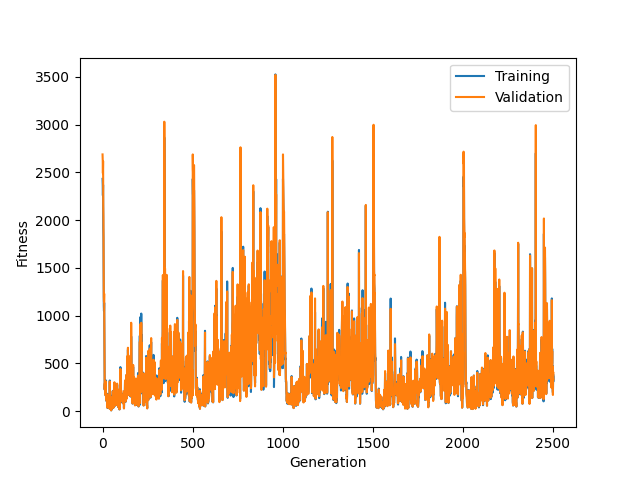
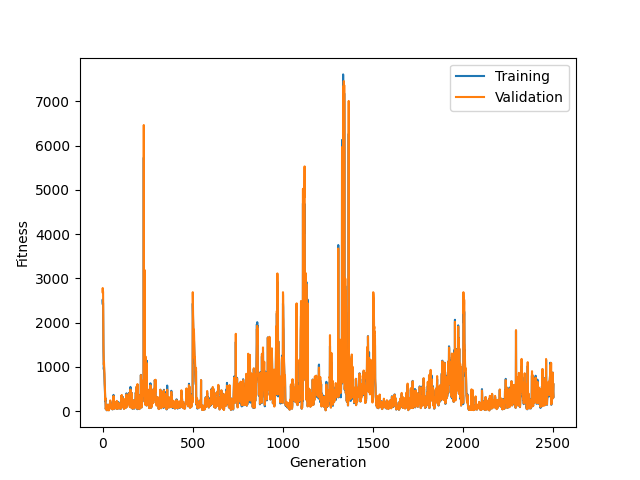
configuring runs

diff --git a/ES_FINAL.py b/ES_FINAL.py
@@ -1,8 +1,6 @@
 import numpy as np
 import data
 import time
-import sys
-from deap import base, creator, tools, algorithms
 import tensorflow as tf
 import matplotlib.pyplot as plt
 from tensorflow.keras.models import Sequential
@@ -68,7 +66,7 @@ def fitness_function(individuals):
 	fitness = tf.convert_to_tensor(fitness)
 	return fitness
 
-max_epochs = 500
+max_epochs = 150
 history = {
 	'best_fitness_train': [],
 	'best_fitness_val': [],
@@ -94,11 +92,17 @@ def logging_function(cma, logger):
 
 
 
-def do_ES(k):
+def do_ES(k, folder, sample_size, noise_level):
 	np.random.seed(123)
+	history = {
+		'best_fitness_train': [],
+		'best_fitness_val': [],
+		'best_mse_train': [],
+		'best_mse_val': []
+	}
 
 	global X_train, X_val, X_test, y_train, y_val, y_test
-	X_train, X_val, X_test, y_train, y_val, y_test = data.generate_synthetic_data_reg(2000, 0.05)
+	X_train, X_val, X_test, y_train, y_val, y_test = data.generate_synthetic_data_reg(sample_size, noise_level)
 
 	max_neurons = 100
 	n_weights = X_train.shape[1] * max_neurons + max_neurons
@@ -109,6 +113,7 @@ def do_ES(k):
 	bounds.extend([[-np.inf, np.inf]] * n_weights)
 
 	cma = CMA(
+		population_size=100,
 		initial_solution=np.array(initial_solution),
 		initial_step_size=1.0,
 		enforce_bounds=np.array(bounds),
@@ -128,16 +133,18 @@ def do_ES(k):
 	plt.plot(history['best_fitness_val'])
 	plt.xlabel('Generation')
 	plt.ylabel('Fitness')
+	plt.grid(True)
 	plt.legend(['Training', 'Validation'])
-	plt.savefig(f'ES_training_fitness{k}.png')
+	plt.savefig(f'{folder}/ES_training_fitness{k}.png')
 	plt.clf()
 
 	plt.plot(history['best_mse_train'])
 	plt.plot(history['best_mse_val'])
 	plt.xlabel('Generation')
 	plt.ylabel('MSE')
+	plt.grid(True)
 	plt.legend(['Training', 'Validation'])
-	plt.savefig(f'ES_training_mse_{k}.png')
+	plt.savefig(f'{folder}/ES_training_mse_{k}.png')
 	plt.clf()
 
 	mse = obtain_mse(best_solution, X_test, y_test)

diff --git a/plot_results.py b/plot_results.py
@@ -1,12 +1,15 @@
 import json
+
+import pandas as pd
 from scipy import stats
 import numpy as np
 import matplotlib.pyplot as plt
 
+folder = "run2"
 
-MLP_file_path = "MLP_runs.json"
-GA_file_path = "GA_runs.json"
-ES_file_path = "ES_runs.json"
+MLP_file_path = f"{folder}/MLP_runs.json"
+GA_file_path = f"{folder}/GA_runs.json"
+ES_file_path = f"{folder}/ES_runs.json"
 
 MLP_f = open(MLP_file_path)
 GA_f = open(GA_file_path)
@@ -41,5 +44,29 @@ print(f"GA training time: {np.mean(GA_time):3f}+-{stats.sem(GA_time) * 1.967:3f}
 print(f"ES MSE: {np.mean(ES_mse):3f}+-{stats.sem(ES_mse) * 1.967:3f}")
 print(f"ES training time: {np.mean(ES_time):3f}+-{stats.sem(ES_time) * 1.967:3f}")
 
+data_for_boxplot1 = pd.DataFrame({'Adam':MLP_mse, 'GA':GA_mse, 'CMA-ES':ES_mse})
+data_for_boxplot2 = pd.DataFrame({'Adam':MLP_time, 'GA':GA_time, 'CMA-ES':ES_time})
+labels = ["Adam", "GA", "CMA-ES"]
+
+# Create boxplot time predict
+plt.figure(figsize=(5, 4))
+#plt.subplots_adjust(bottom=0.345, left=0.24, top=0.92,right=0.99)
+plt.boxplot(data_for_boxplot1, labels=labels)
+#plt.xticks(rotation=45, ha='right')  # Rotate x-axis labels for better readability
+#plt.xlabel('Models')
+plt.ylabel('MSE')
+plt.title('Boxplot of Model Test MSE')
+plt.savefig(f'{folder}/Boxplot_mse.png')
+plt.close()
+
+plt.figure(figsize=(5, 4))
+#plt.subplots_adjust(bottom=0.345, left=0.24, top=0.92,right=0.99)
+plt.boxplot(data_for_boxplot2, labels=labels)
+#plt.xticks(rotation=45, ha='right')  # Rotate x-axis labels for better readability
+#plt.xlabel('Models')
+plt.ylabel('Training time [s]')
+plt.title('Boxplot of Training time')
+plt.savefig(f'{folder}/Boxplot_training_time.png')
+plt.close()
 
 print()

diff --git a/independent_runs.py b/independent_runs.py
@@ -1,22 +1,22 @@
 
 import numpy as np
 import json
-import ES_FINAL, GA_FINAL
-import MLP
-
+import ES_FINAL, GA_FINAL, MLP
 
 def main():
-    k_runs = 5
-
+    folder = "run3"
+    k_runs = 3
+    dataset_sample_size = 2000
+    dataset_noise_level = 0.25
     ###################
     #      MLP        #
     ###################
     MLP_runs = {}
     for k in range(k_runs):
-        mse, time, n_neurons = MLP.do_MLP(k)
+        mse, time, n_neurons = MLP.do_MLP(k, folder, dataset_sample_size, dataset_noise_level)
         MLP_runs[k] = {'mse': mse, 'time': time, 'n_neurons': float(n_neurons)}
 
-    with open("MLP_runs.json", "w") as js:
+    with open(f"{folder}/MLP_runs.json", "w") as js:
         json.dump(MLP_runs, js)
 
     ###################
@@ -25,10 +25,10 @@ def main():
 
     GA_runs = {}
     for k in range(k_runs):
-        mse, time, n_neurons = GA_FINAL.do_GA(k)
+        mse, time, n_neurons = GA_FINAL.do_GA(k, folder, dataset_sample_size, dataset_noise_level)
         GA_runs[k] = {'mse': mse, 'time': time, 'n_neurons': float(n_neurons)}
 
-    with open("GA_runs.json", "w") as js:
+    with open(f"{folder}/GA_runs.json", "w") as js:
         json.dump(GA_runs, js)
 
 
@@ -38,10 +38,10 @@ def main():
 
     ES_runs = {}
     for k in range(k_runs):
-        mse, time, n_neurons = ES_FINAL.do_ES(k)
+        mse, time, n_neurons = ES_FINAL.do_ES(k, folder, dataset_sample_size, dataset_noise_level)
         ES_runs[k] = {'mse':mse, 'time':time, 'n_neurons':float(n_neurons)}
 
-    with open("ES_runs.json", "w") as js:
+    with open(f"{folder}/ES_runs.json", "w") as js:
         json.dump(ES_runs, js)
 
 

diff --git a/GA_FINAL.py b/GA_FINAL.py
@@ -67,13 +67,13 @@ def obtain_fitness(individual, X, y):
 
 
 
-def do_GA(k):
+def do_GA(k, folder, sample_size, noise_level):
     global X_train, X_val, X_test, y_train, y_val, y_test
-    global history
+
     global max_neurons
     global max_epochs
     global ga
-    X_train, X_val, X_test, y_train, y_val, y_test = data.generate_synthetic_data_reg(2000, 0.05)
+    X_train, X_val, X_test, y_train, y_val, y_test = data.generate_synthetic_data_reg(sample_size, noise_level)
     max_neurons = 100
     max_epochs = 150
     n_weights = X_train.shape[1] * max_neurons + max_neurons
@@ -129,24 +129,24 @@ def do_GA(k):
     # Print the best individual and its fitness value
     print(f"Best individual: {best_individual}, Best fitness: {-ga.fmax}")
 
-    plt.figure(figsize=(4, 2))
+
     plt.plot(history['best_fitness_train'])
     plt.plot(history['best_fitness_val'])
     plt.xlabel('Generation')
     plt.ylabel('Fitness')
     plt.legend(['Training', 'Validation'])
     plt.grid(True)
-    plt.savefig(f'GA_training_fitness_{k}.png')
+    plt.savefig(f'{folder}/GA_training_fitness_{k}.png')
     plt.clf()
 
-    plt.figure(figsize=(4, 2))
+
     plt.plot(history['best_mse_train'])
     plt.plot(history['best_mse_val'])
     plt.xlabel('Generation')
     plt.ylabel('MSE')
     plt.legend(['Training', 'Validation'])
     plt.grid(True)
-    plt.savefig(f'GA_training_mse_{k}.png')
+    plt.savefig(f'{folder}/GA_training_mse_{k}.png')
     plt.clf()
     mse = obtain_mse(best_individual, X_test, y_test)
     print('MSE on test set:', mse)

diff --git a/MLP.py b/MLP.py
@@ -9,11 +9,11 @@ import matplotlib.pyplot as plt
 from sklearn.metrics import mean_squared_error
 
 
-def do_MLP(k):
+def do_MLP(k, folder, sample_size, noise_level):
     np.random.seed(123)
-    X_train, X_val, X_test, y_train, y_val, y_test = data.generate_synthetic_data_reg(200, 0.01)
+    X_train, X_val, X_test, y_train, y_val, y_test = data.generate_synthetic_data_reg(sample_size, noise_level)
     n_neurons = 100
-    epochs = 200
+    epochs = 50
     learning_rate = 0.01
 
 
@@ -28,14 +28,14 @@ def do_MLP(k):
     end_time = time.time()
     train_time = end_time - start_time
 
-    plt.figure(figsize=(4, 2))
+
     plt.plot(history.history['loss'], label='Training')
     plt.plot(history.history['val_loss'], label='Validation')
     plt.xlabel('Epochs')
     plt.ylabel('MSE')
     plt.legend()
     plt.grid(True)
-    plt.savefig(f'MLP_training_mse_{k}.png')
+    plt.savefig(f'{folder}/MLP_training_mse_{k}.png')
 
     predictions = model.predict(X_test)
     mse = mean_squared_error(y_test, predictions)
